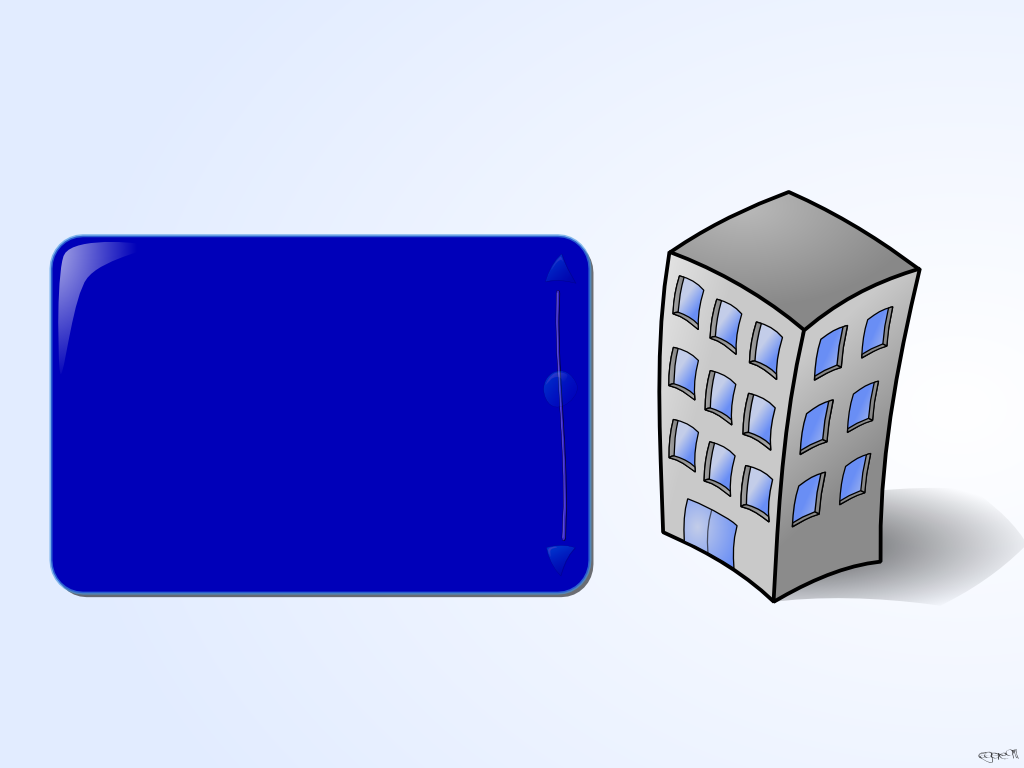
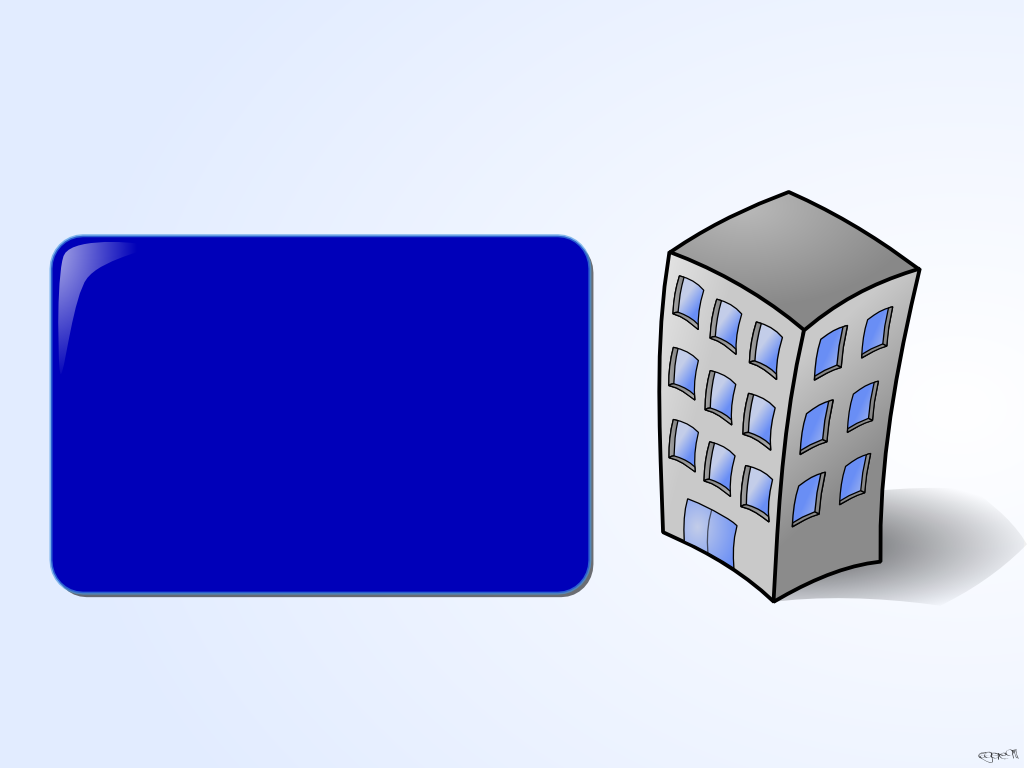
Started with EconomyGraph. Nothing to see yet.

diff --git a/trunk/src/lincity-ng/MiniMap.cpp b/trunk/src/lincity-ng/MiniMap.cpp
@@ -198,6 +198,9 @@ void MiniMap::attachButtons()
     switchButton = getButton(*root, "SwitchMPSGlobal");
     switchButton->clicked.connect(
             makeCallback(*this, &MiniMap::switchButton));
+    switchButton = getButton(*root, "SwitchEconomy");
+    switchButton->clicked.connect(
+            makeCallback(*this, &MiniMap::switchButton));
 }
 
 void
@@ -224,9 +227,12 @@ MiniMap::switchButton(Button* button)
         mps_set( mps_x, mps_y, MPS_GLOBAL );//show global info
         shownTabName = "MPSPanel";
         switchComponent->switchComponent("MPSPanel");
-    } else if(button->getName() == "SwitchQueryTool") {
+    } else if( button->getName() == "SwitchQueryTool") {
         mps_set( mps_x, mps_y, MPS_MAP );//show building info
         showQueryTab();
+    } else if( button->getName() == "SwitchEconomy" ){
+        shownTabName = "EconomyGraph";
+        switchComponent->switchComponent("EconomyGraph");
     } else {
         std::cerr << "Unknown switch '" << button->getName() << "'.\n";
     }

diff --git a/trunk/src/lincity-ng/EconomyGraph.cpp b/trunk/src/lincity-ng/EconomyGraph.cpp
@@ -1,0 +1,43 @@
+/**
+ *  EconomyGraph Component for Lincity-NG.
+ *   
+ *  May 2005, Wolfgang Becker <uafr@gmx.de>
+ *
+ */
+#include <config.h>
+
+#include "EconomyGraph.hpp"
+
+#include "gui/ComponentFactory.hpp"
+#include <iostream>
+
+
+EconomyGraph::EconomyGraph(){
+
+}
+
+EconomyGraph::~EconomyGraph(){
+
+}
+
+void EconomyGraph::parse( XmlReader& reader ){
+    XmlReader::AttributeIterator iter( reader );
+    while(iter.next()) {
+        const char* name = (const char*) iter.getName();
+        const char* value = (const char*) iter.getValue();
+
+        if(parseAttribute(name, value)){
+            continue;
+        } else {
+            std::cerr << "Unknown attribute '" << name 
+                      << "' skipped in PBar.\n";
+        }
+    }
+}
+ 
+void EconomyGraph::draw( Painter& painter ){
+    //TODO: see oldgui/screen.cpp
+    //do_history_linegraph looks like a starting point.
+}
+
+IMPLEMENT_COMPONENT_FACTORY(EconomyGraph);

diff --git a/trunk/src/lincity-ng/MainMenu.cpp b/trunk/src/lincity-ng/MainMenu.cpp
@@ -36,6 +36,7 @@ MainMenu::MainMenu()
 {
     loadMainMenu();
     switchMenu(mainMenu.get());
+    baseName = "";
 }
 
 MainMenu::~MainMenu()
@@ -252,6 +253,7 @@ MainMenu::selectLoadGameButtonClicked(CheckButton* button ,int)
     file="opening/bad_times.scn";
   else if(fc.length())
   {
+    baseName = fc;
     if(newGameMenu.get()==currentMenu )
       file=std::string("opening/")+fc+".scn";
     else{
@@ -368,7 +370,7 @@ MainMenu::newGameStartButtonClicked(Button* )
 {
     getSound()->playSound( "Click" );
     if( loadCityNG( mFilename ) ){
-    	strcpy (given_scene, mFilename.c_str());
+    	strcpy (given_scene, baseName.c_str());
         quitState = INGAME;
         running = false;
     }

diff --git a/trunk/src/lincity-ng/PBar.cpp b/trunk/src/lincity-ng/PBar.cpp
@@ -84,13 +84,13 @@ LCPBar::setValue(int num, int value)
     }
     else
         os<<value;
-
-    p->setText(os.str());
-    
+    int diff=value-old;
+    if( diff != 0 ){
+        p->setText(os.str());
+    }
     os.str("");
     os<<"pbar_barview"<<(num+1);
 
-    int diff=value-old;
     float sv=0;
     switch(num)
     {

diff --git a/trunk/src/lincity-ng/EconomyGraph.hpp b/trunk/src/lincity-ng/EconomyGraph.hpp
@@ -1,0 +1,18 @@
+#ifndef __EconomyGraph_HPP
+#define __EconomyGraph_HPP
+
+#include "gui/Component.hpp"
+#include "gui/XmlReader.hpp"
+
+class EconomyGraph : public Component {
+public:
+    EconomyGraph();
+    ~EconomyGraph();
+
+    void parse(XmlReader& reader);
+    void draw(Painter& painter);
+    
+private:
+
+};
+#endif

diff --git a/trunk/src/lincity-ng/Game.cpp b/trunk/src/lincity-ng/Game.cpp
@@ -44,6 +44,7 @@ Game::~Game()
 }
 
 void Game::backToMainMenu(){
+    getButtonPanel()->selectQueryTool(); 
     getGameView()->writeOrigin();
     saveCityNG( "9_currentGameNG.scn" );
     running = false;

diff --git a/trunk/src/lincity-ng/MainMenu.hpp b/trunk/src/lincity-ng/MainMenu.hpp
@@ -62,6 +62,7 @@ private:
     int slotNr;
     
     std::string mFilename;    
+    std::string baseName;
 };
 
 #endif
